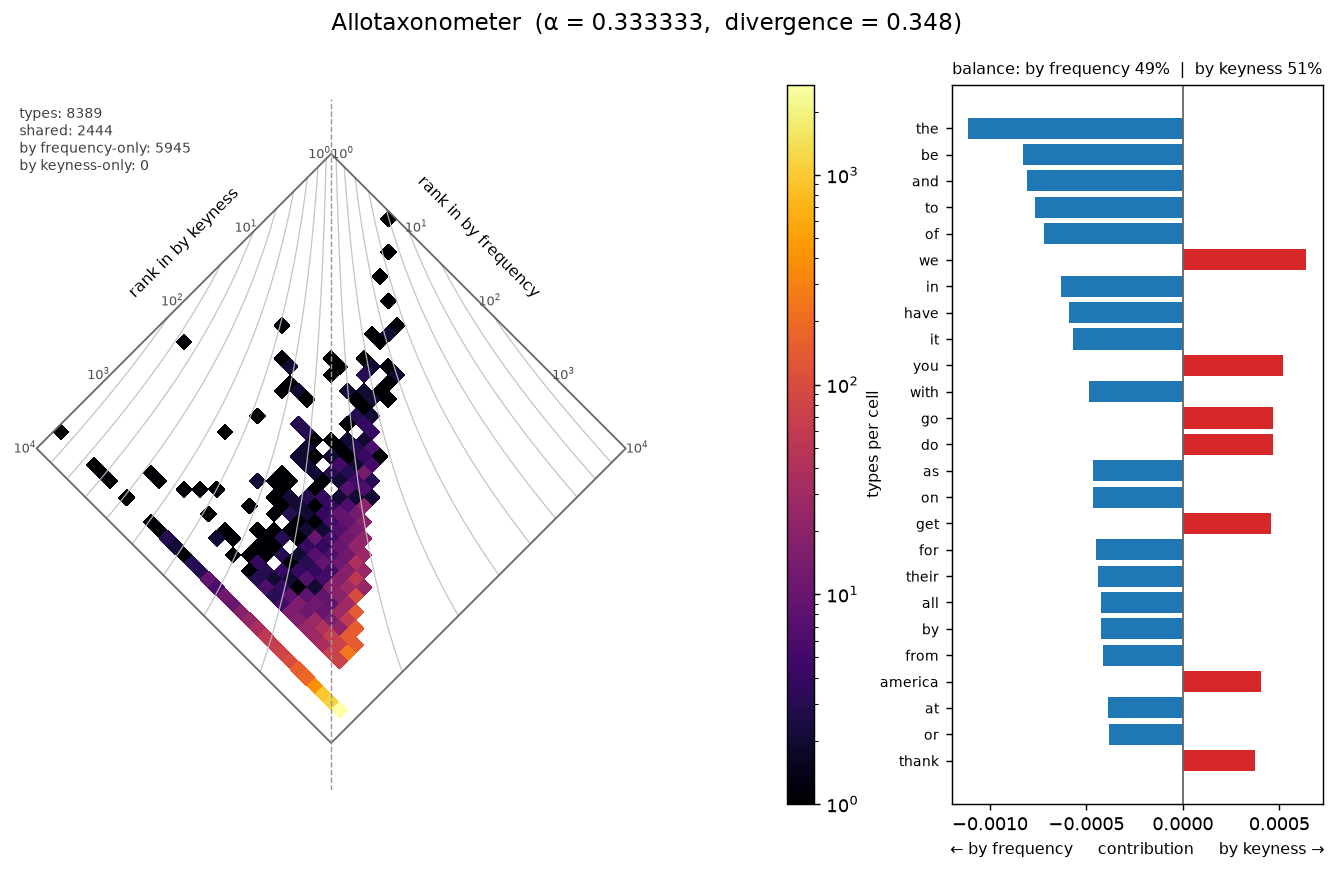
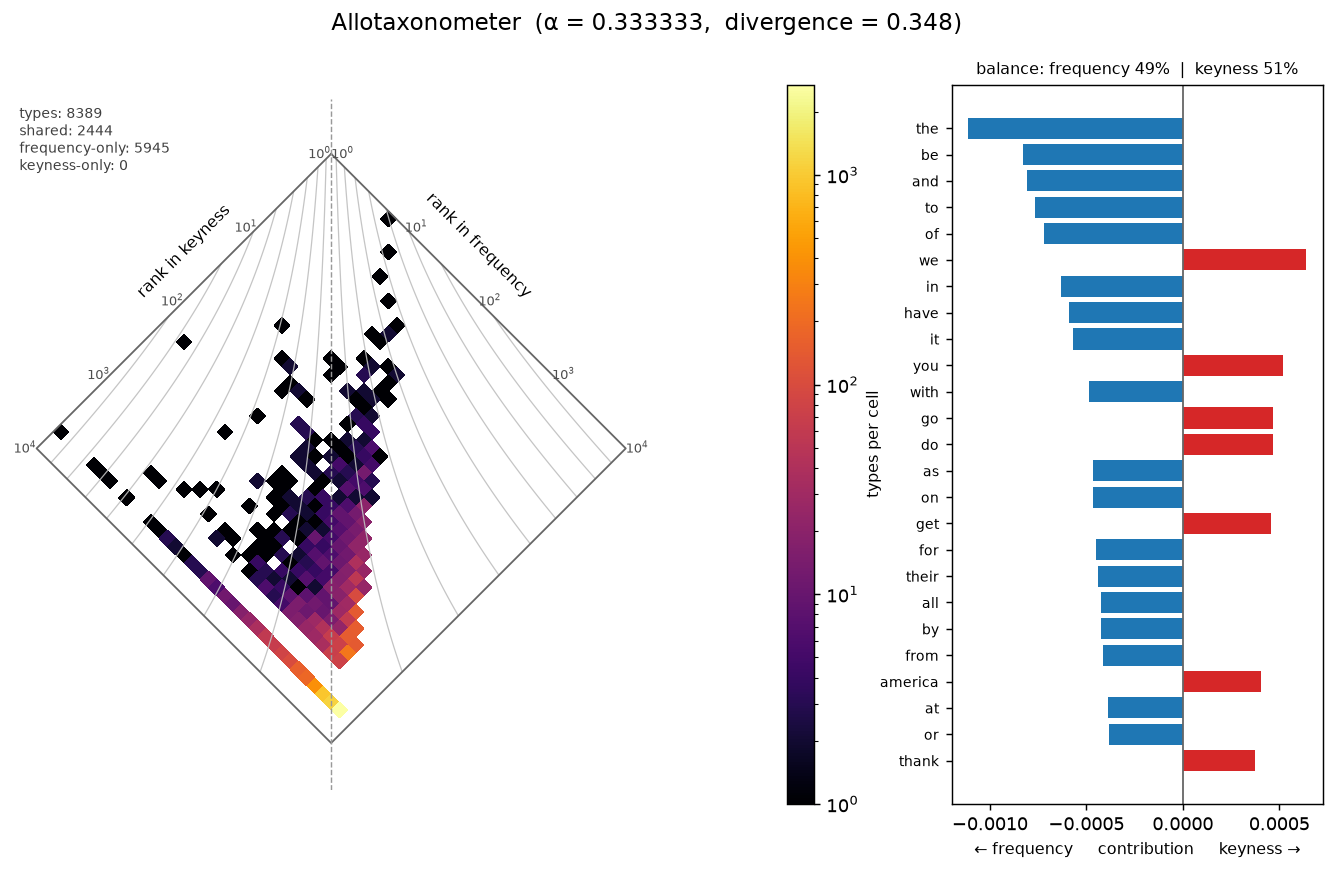
examples: keyness-vs-keyness era diamonds + clearer labels
- Add 'keyness vs keyness across eras' to the presidential example: rank each
  era's over-represented words by keyness against the rest of the corpus (a
  shared reference), then diamond two eras' distinctive-vocabulary rankings.
  Adds 1950-1974 vs 2000-2024 and 1825-1849 vs 2000-2024 to the gallery + notebook.
- Fix the frequency-vs-keyness diamond labels ('by frequency' -> 'frequency') so
  the axes read 'rank in frequency' / 'rank in keyness'; clarify the docs caption.

Examples/docs only — no package code change.

diff --git a/examples/presidential_speeches.py b/examples/presidential_speeches.py
@@ -188,14 +188,60 @@ show(diamond("2000-2024", "1950-1974", save_as="diamond_2000-2024_vs_1950-1974.p
 # keyness ranking; content words leap up. It's the same vocabulary, reordered.
 
 # %%
-freq_rank = RankedList.from_counts(counts["2000-2024"], label="by frequency")
+freq_rank = RankedList.from_counts(counts["2000-2024"], label="frequency")
 _k = Keyness(counts["2000-2024"], counts["1825-1849"],
              min_focus_freq=10, min_reference_freq=10)
 key_scores = {r.type: r.statistic for r in _k.table() if r.direction == "positive"}
-key_rank = RankedList.from_scores(key_scores, label="by keyness")
+key_rank = RankedList.from_scores(key_scores, label="keyness")
 fig_fk = allotaxonometer(freq_rank, key_rank, alpha=1 / 3)
 fig_fk.savefig(
     GALLERY / "diamond_frequency_vs_keyness.png", dpi=130, bbox_inches="tight"
 )
 print("saved gallery/diamond_frequency_vs_keyness.png")
 show(fig_fk)
+
+# %% [markdown]
+# ## Keyness vs. keyness — which words are distinctive of each era
+#
+# Keyness always needs a reference. To compare *eras* on equal footing we give
+# each era the **same** reference: the rest of the presidential corpus (all other
+# eras combined). For each era we rank its over-represented words by keyness
+# (log-likelihood, `RankedList.from_scores`) — its "distinctive vocabulary" — and
+# diamond two eras' keyness rankings against each other. Words distinctive of
+# *both* compared eras (versus the tradition) sit near the top centre; words
+# distinctive of only one era fan out to its side; the divergence measures how
+# differently the two eras stand out.
+
+
+# %%
+def era_keyness_ranking(period, *, min_freq=10):
+    """Rank a period's over-represented words by keyness vs the rest of the corpus."""
+    rest = Counter()
+    for other, c in counts.items():
+        if other != period:
+            rest.update(c)
+    k = Keyness(
+        counts[period], rest, min_focus_freq=min_freq, min_reference_freq=min_freq
+    )
+    scores = {r.type: r.statistic for r in k.table() if r.direction == "positive"}
+    return RankedList.from_scores(scores, label=period)
+
+
+def keyness_diamond(period_a, period_b, *, alpha=1 / 3, save_as=None):
+    """Diamond two eras' keyness rankings (each vs the rest of the corpus)."""
+    fig = allotaxonometer(
+        era_keyness_ranking(period_a), era_keyness_ranking(period_b), alpha=alpha
+    )
+    if save_as:
+        fig.savefig(GALLERY / save_as, dpi=130, bbox_inches="tight")
+        print(f"saved gallery/{save_as}")
+    return fig
+
+
+# %%
+show(keyness_diamond("1950-1974", "2000-2024",
+                     save_as="keyness_1950-1974_vs_2000-2024.png"))
+
+# %%
+show(keyness_diamond("1825-1849", "2000-2024",
+                     save_as="keyness_1825-1849_vs_2000-2024.png"))

diff --git a/docs/examples/presidential_speeches.md b/docs/examples/presidential_speeches.md
@@ -73,11 +73,37 @@ and exclusive words fan out to the lower edges.
 `allotaxonometer` compares *any* two rankings, not just two corpora. Here the
 **2000–2024** corpus is ranked two ways — by raw **frequency** and by **keyness**
 (log-likelihood vs the 1825–1849 reference, via `RankedList.from_scores`) — and
-diamonded against itself. Function words (*the, be, and, of*) top the frequency
-ranking but fall out of the keyness ranking; deictic and content words (*we, you,
-america, thank*) rise. Same vocabulary, reordered.
+diamonded against itself. Read the two edges as the two rankings: the right edge
+is a word's **rank in frequency**, the left edge its **rank in keyness**. A word
+leaning right (blue) is frequent but *not* distinctive — the function words *the,
+be, and, of*; a word leaning left (red) is distinctive but not among the most
+frequent — *we, you, america, thank*. The bright edge is the ~5,900 words that
+are frequent but aren't positive keywords, so they have no keyness rank. Same
+vocabulary, reordered.
 
 ![frequency vs keyness](https://raw.githubusercontent.com/crow-intelligence/keyflux/main/examples/gallery/diamond_frequency_vs_keyness.png)
+
+## Keyness vs. keyness across eras
+
+Keyness always needs a reference, so to compare *eras* on equal footing we give
+each era the **same** reference — the rest of the presidential corpus (all other
+eras combined) — and rank its over-represented words by keyness
+(`RankedList.from_scores`). Each ranking is then an era's **distinctive
+vocabulary** versus the tradition. Diamonding two eras' keyness rankings shows
+which words are distinctive of *both* (near the top centre) and which are
+distinctive of only one (fanning to its side); the divergence measures how
+differently the two eras stand out.
+
+**Cold War (1950–1974) vs. modern (2000–2024).** Distinctive of 1950–1974:
+*vietnam, program, communist, soviet, peace, kennedy*. Distinctive of 2000–2024:
+*you, do, get, thank, job, america, iraq*. Their distinctive vocabularies barely
+overlap — divergence ≈ 0.70.
+
+![keyness 1950–1974 vs 2000–2024](https://raw.githubusercontent.com/crow-intelligence/keyflux/main/examples/gallery/keyness_1950-1974_vs_2000-2024.png)
+
+**Nineteenth century (1825–1849) vs. twenty-first (2000–2024).**
+
+![keyness 1825–1849 vs 2000–2024](https://raw.githubusercontent.com/crow-intelligence/keyflux/main/examples/gallery/keyness_1825-1849_vs_2000-2024.png)
 
 ## The script
 